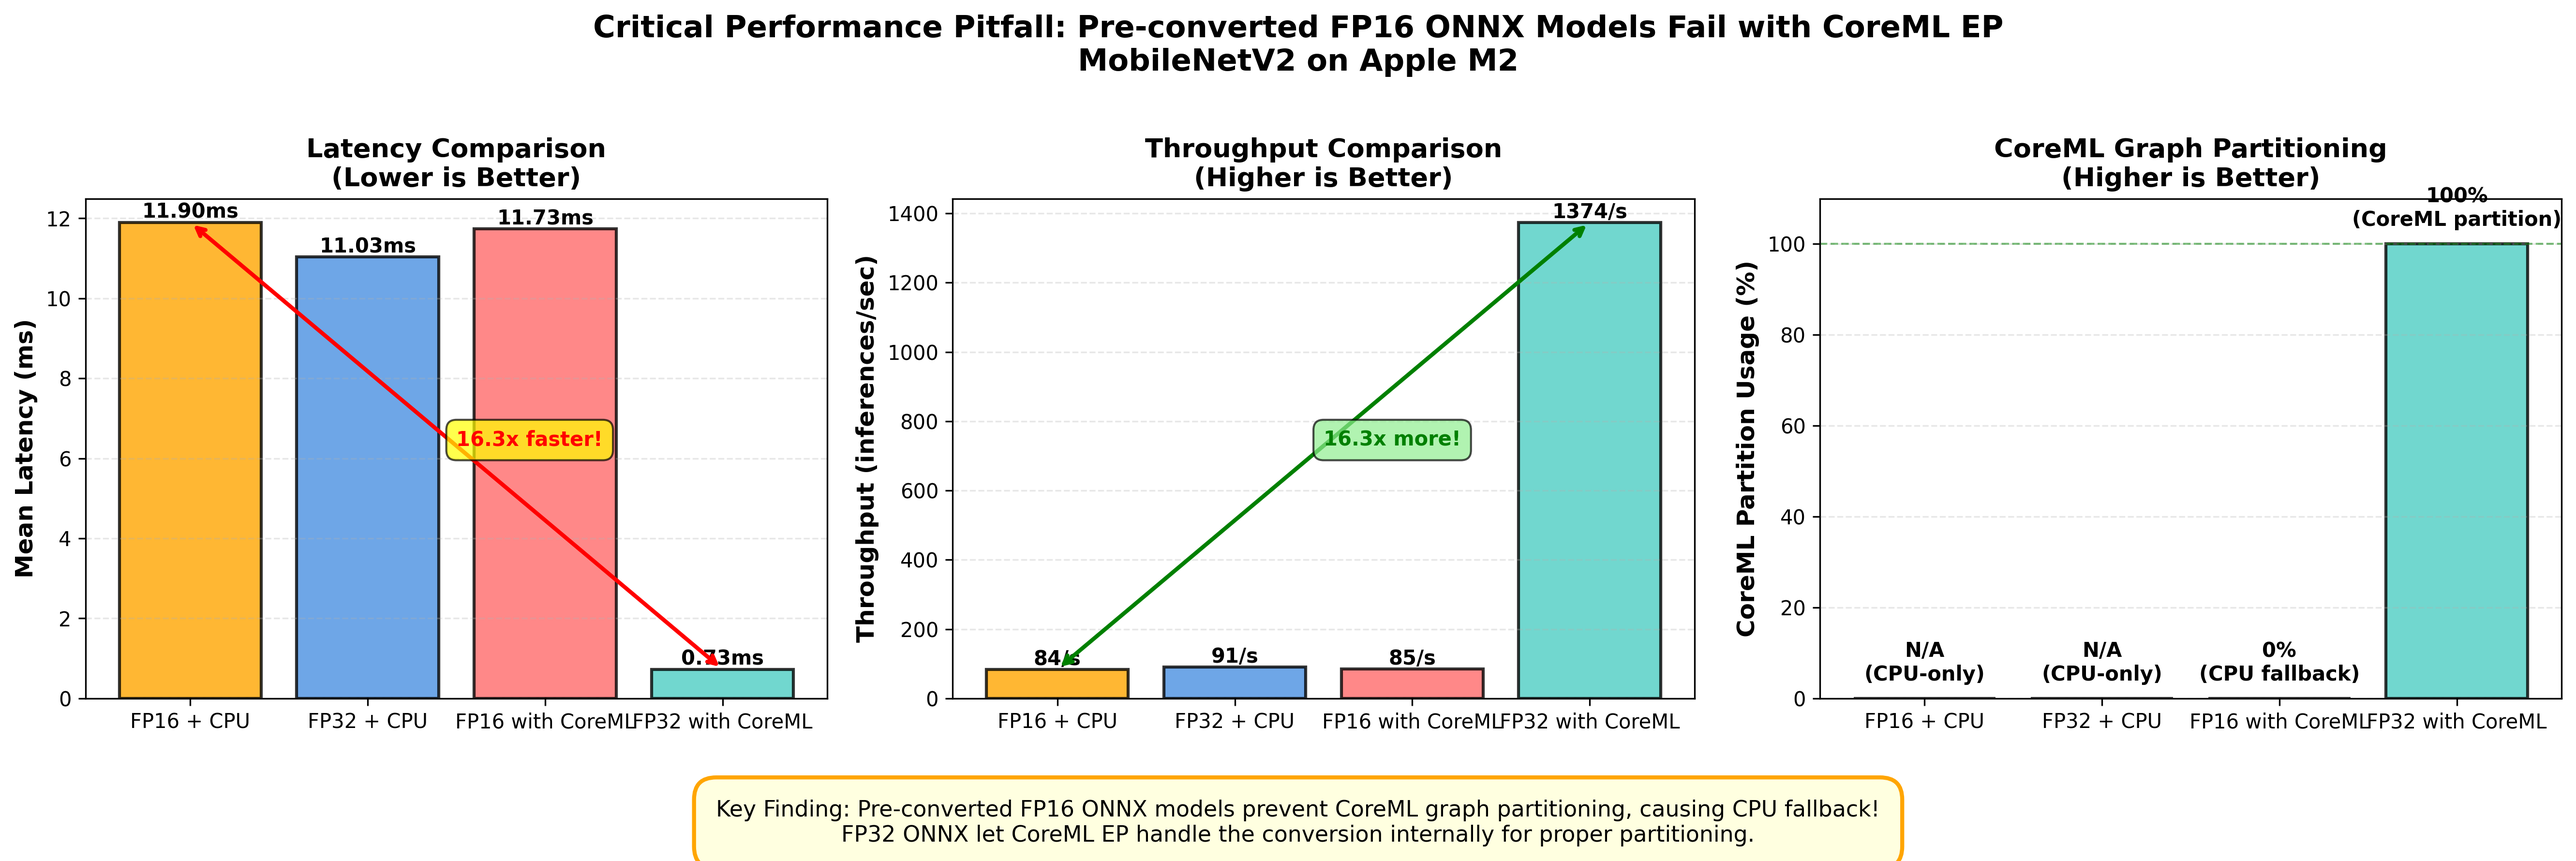
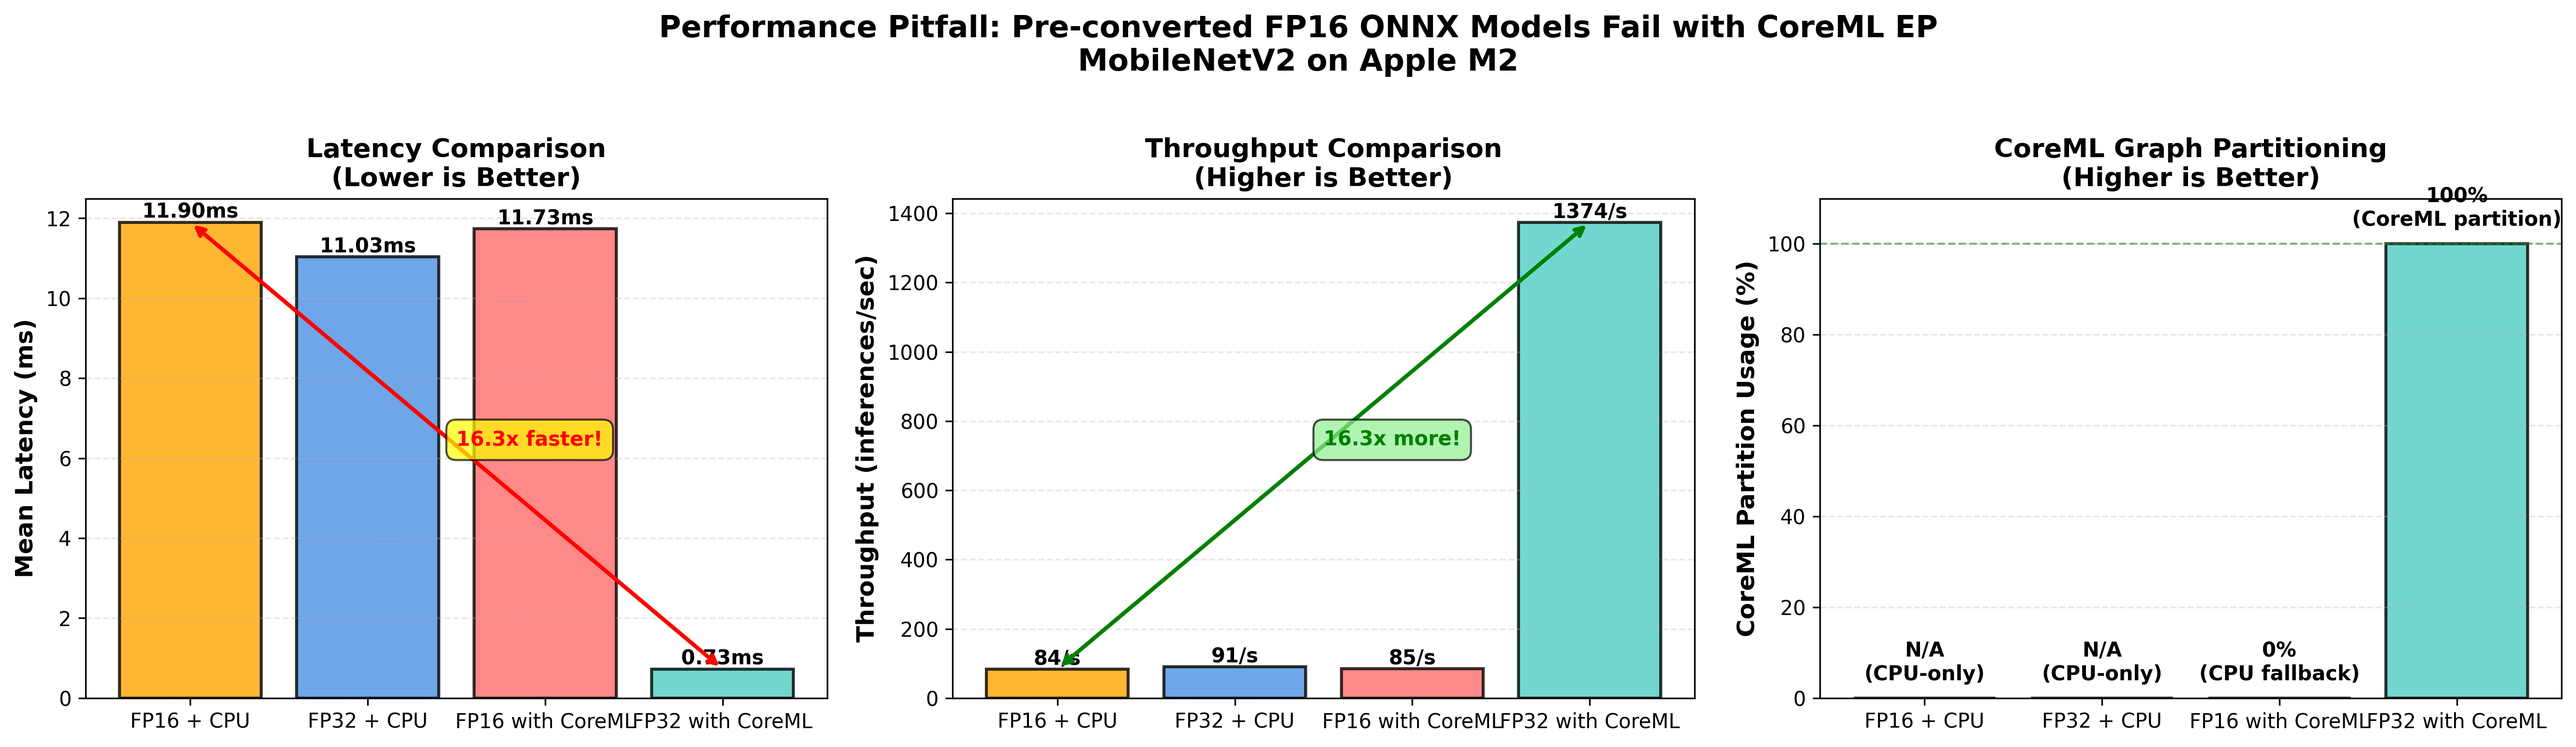
Remove key findings text from MobileNet plot and update documentation

diff --git a/scripts/run_mobilenet_comparison.py b/scripts/run_mobilenet_comparison.py
@@ -221,15 +221,8 @@ def plot_comparison(results, output_path="results/plots/mobilenet_coreml_cpu_com
                  ha='center', va='bottom', fontsize=10, fontweight='bold')
     
     # Add overall title
-    fig.suptitle('Critical Performance Pitfall: Pre-converted FP16 ONNX Models Fail with CoreML EP\nMobileNetV2 on Apple M2', 
+    fig.suptitle('Performance Pitfall: Pre-converted FP16 ONNX Models Fail with CoreML EP\nMobileNetV2 on Apple M2', 
                  fontsize=15, fontweight='bold', y=1.02)
-    
-    # Add explanation text at bottom
-    fig.text(0.5, -0.12, 
-             'Key Finding: Pre-converted FP16 ONNX models prevent CoreML graph partitioning, causing CPU fallback!\n'
-             'FP32 ONNX let CoreML EP handle the conversion internally for proper partitioning.',
-             ha='center', fontsize=11, 
-             bbox=dict(boxstyle='round,pad=1', facecolor='lightyellow', edgecolor='orange', linewidth=2))
     
     plt.tight_layout()
     plt.savefig(output_path, dpi=300, bbox_inches='tight')

diff --git a/README.md b/README.md
@@ -193,7 +193,10 @@ This shows that **user-visible dtype ≠ execution dtype** in CoreML.
 
 ### 4.6 Control Experiment: MobileNet on CoreML
 
-To verify that CoreML is not inherently inferior, we benchmark MobileNet:
+To verify that CoreML is not inherently inferior, we benchmark MobileNet on CoreML and CPU across FP32 and FP16 precisions:
+
+
+![Mobilenet on CoreML vs CPU for FP32/FP16](results/plots/mobilenet_fp16_vs_fp32_coreml_vs_cpu.png)
 
 - FP32 ONNX → 100% CoreML partition  
 - No fragmentation  
